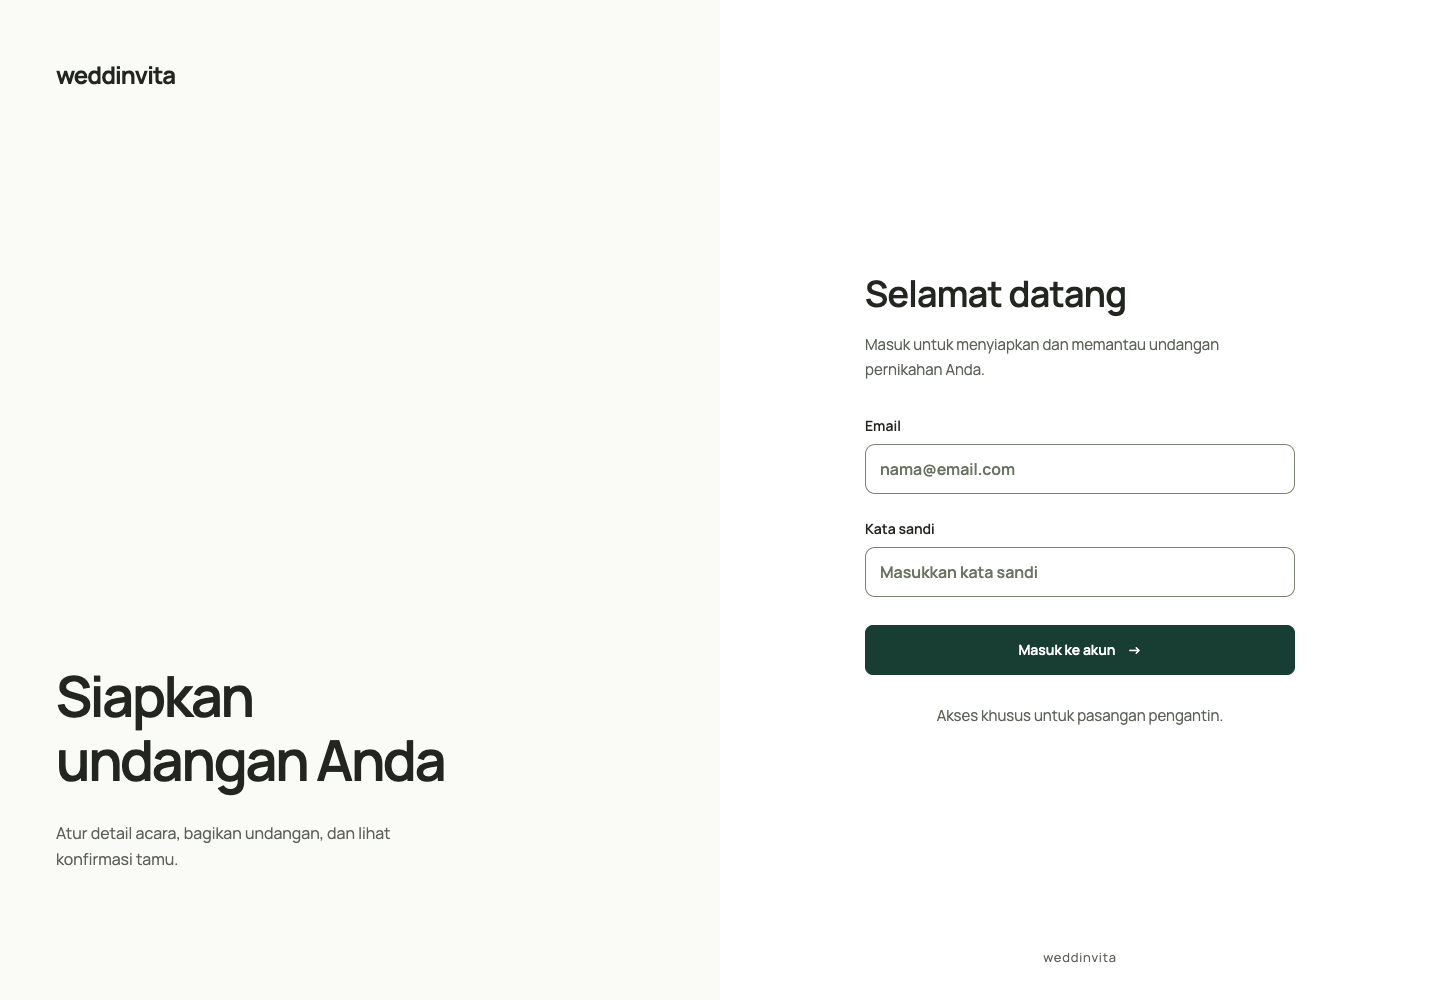
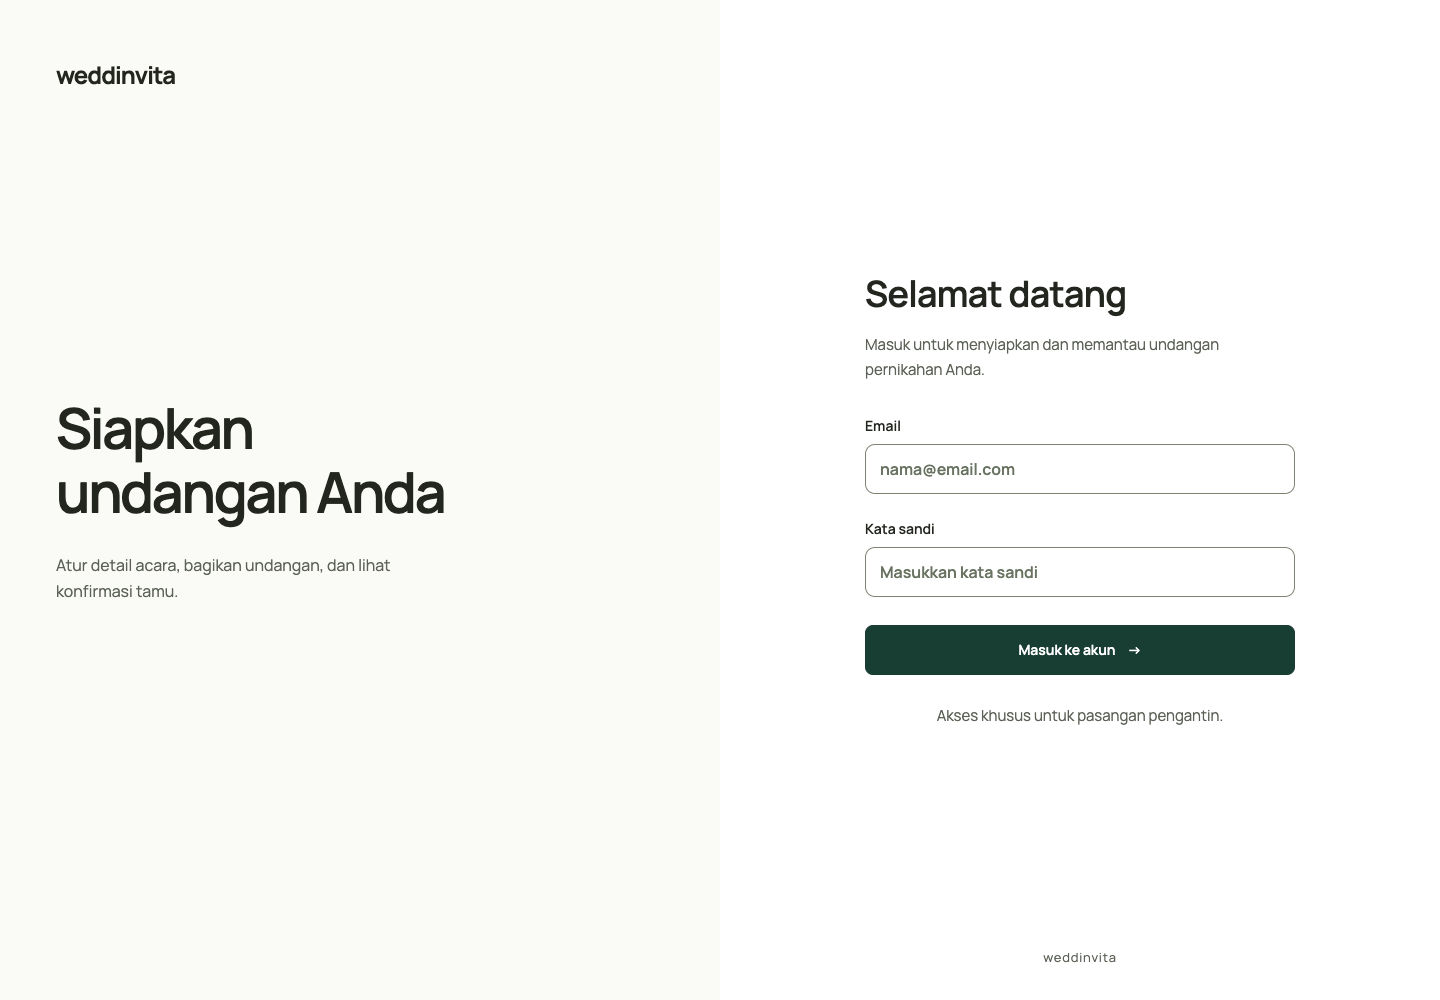
Center login introduction vertically on desktop

Changed region(s): [[0.0312, 0.651, 0.3125, 0.868], [0.0312, 0.403, 0.3125, 0.527], [0.0312, 0.558, 0.2812, 0.62]]

diff --git a/frontend/studio.css b/frontend/studio.css
@@ -1163,6 +1163,15 @@ h3 {
   color: var(--ink);
   padding: 56px;
 }
+@media (min-width: 600px) {
+  .login-story {
+    display: grid;
+    grid-template-rows: 1fr auto 1fr;
+  }
+  .login-statement {
+    margin: 0;
+  }
+}
 .login-wordmark {
   font-size: 24px;
   letter-spacing: -.04em;
